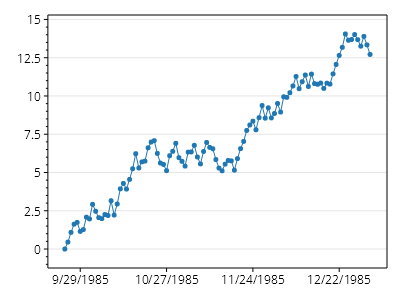
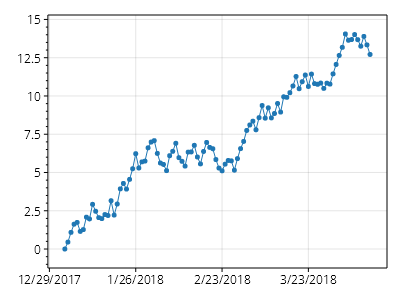
SP5: update cookbook

Changed region(s): [[0.03, 0.9, 0.93, 0.96]]

diff --git a/content/cookbook/5.0/cookbook-5.0.md b/content/cookbook/5.0/cookbook-5.0.md
@@ -2,12 +2,12 @@
 title: ScottPlot 5.0 Cookbook
 description: Example plots shown next to the code used to create them
 url: /cookbook/5.0/
-date: 2/9/2023 11:56:12 PM
+date: 2/28/2023 1:42:27 AM
 ---
 
 
 
-<div class='alert alert-warning' role='alert'><h4 class='alert-heading py-0 my-0'>⚠ ScottPlot 5.0.1-beta is a preview package</h4><hr /><p class='mb-0'><span class='fw-semibold'>This page describes a beta release of ScottPlot.</span> It is available on NuGet as a preview package, but its API is not stable and it is not recommended for production use. See the <a href='https://scottplot.net/versions/'>ScottPlot Versions</a> page for more information. </p></div>
+<div class='alert alert-warning' role='alert'><h4 class='alert-heading py-0 my-0'>⚠ ScottPlot 5.0.2-beta is a preview package</h4><hr /><p class='mb-0'><span class='fw-semibold'>This page describes a beta release of ScottPlot.</span> It is available on NuGet as a preview package, but its API is not stable and it is not recommended for production use. See the <a href='https://scottplot.net/versions/'>ScottPlot Versions</a> page for more information. </p></div>
 
 
 ## Introduction
@@ -292,6 +292,37 @@ date: 2/9/2023 11:56:12 PM
 <div class='col'>
 <div><a href='error-bars/#multidimensional-errorbars'><b>MultiDimensional ErrorBars</b></a></div>
 <div>You can mix and match x and y error bars.</div>
+</div>
+</div>
+<div class='fs-4 mt-4'>Financial Plot</div>
+<div>Finance plots display price data binned into time ranges</div>
+<div class='row my-4'>
+<div class='col'>
+<a href='financial-plot/#ohlc-chart'><img class='img-fluid' src='financial-plot/ohlc-chart.png' /></a>
+</div>
+<div class='col'>
+<div><a href='financial-plot/#ohlc-chart'><b>OHLC Chart</b></a></div>
+<div>OHLC charts use symbols to display price data (open, high, low, and close) for specific time ranges.</div>
+</div>
+</div>
+<div class='row my-4'>
+<div class='col'>
+<a href='financial-plot/#candlestick-chart'><img class='img-fluid' src='financial-plot/candlestick-chart.png' /></a>
+</div>
+<div class='col'>
+<div><a href='financial-plot/#candlestick-chart'><b>Candlestick Chart</b></a></div>
+<div>Candlestick charts use symbols to display price data. The rectangle indicates open and close prices, and the center line indicates minimum and maximum price for the given time period. Color indicates whether the price increased or decreased between open and close.</div>
+</div>
+</div>
+<div class='fs-4 mt-4'>Signal Plot</div>
+<div>Signal plots display evenly-spaced data</div>
+<div class='row my-4'>
+<div class='col'>
+<a href='signal-plot/#offset'><img class='img-fluid' src='signal-plot/offset.png' /></a>
+</div>
+<div class='col'>
+<div><a href='signal-plot/#offset'><b>Offset</b></a></div>
+<div>Signal plots can be offset by a given X and Y value.</div>
 </div>
 </div>
 <hr class='my-5' />

diff --git a/content/cookbook/5.0/financial-plot/index.md b/content/cookbook/5.0/financial-plot/index.md
@@ -1,0 +1,49 @@
+---
+title: Financial Plot - ScottPlot 5.0 Cookbook
+description: Finance plots display price data binned into time ranges
+url: /cookbook/5.0/financial-plot/
+date: 2/28/2023 1:42:27 AM
+---
+
+This page is part of the [ScottPlot 5.0 Cookbook](../)
+
+
+<div class='alert alert-warning' role='alert'><h4 class='alert-heading py-0 my-0'>⚠ ScottPlot 5.0.2-beta is a preview package</h4><hr /><p class='mb-0'><span class='fw-semibold'>This page describes a beta release of ScottPlot.</span> It is available on NuGet as a preview package, but its API is not stable and it is not recommended for production use. See the <a href='https://scottplot.net/versions/'>ScottPlot Versions</a> page for more information. </p></div>
+
+
+
+## OHLC Chart
+
+OHLC charts use symbols to display price data (open, high, low, and close) for specific time ranges.
+
+[![](ohlc-chart.png)](ohlc-chart.png)
+
+```cs
+ScottPlot.Plot myPlot = new();
+
+ScottPlot.RandomDataGenerator gen = new(0);
+ScottPlot.OHLC[] prices = gen.RandomOHLCs(30);
+myPlot.Add.OHLC(prices);
+myPlot.Axes.DateTimeTicks(Edge.Bottom);
+
+myPlot.SavePng("ohlc-chart.png");
+```
+
+
+## Candlestick Chart
+
+Candlestick charts use symbols to display price data. The rectangle indicates open and close prices, and the center line indicates minimum and maximum price for the given time period. Color indicates whether the price increased or decreased between open and close.
+
+[![](candlestick-chart.png)](candlestick-chart.png)
+
+```cs
+ScottPlot.Plot myPlot = new();
+
+ScottPlot.RandomDataGenerator gen = new(0);
+ScottPlot.OHLC[] prices = gen.RandomOHLCs(30);
+myPlot.Add.Candlestick(prices);
+myPlot.Axes.DateTimeTicks(Edge.Bottom);
+
+myPlot.SavePng("candlestick-chart.png");
+```
+

diff --git a/content/cookbook/5.0/datetime-axes/index.md b/content/cookbook/5.0/datetime-axes/index.md
@@ -2,13 +2,13 @@
 title: DateTime Axes - ScottPlot 5.0 Cookbook
 description: Plot data values on a DataTime axes
 url: /cookbook/5.0/datetime-axes/
-date: 2/9/2023 11:56:12 PM
+date: 2/28/2023 1:42:27 AM
 ---
 
 This page is part of the [ScottPlot 5.0 Cookbook](../)
 
 
-<div class='alert alert-warning' role='alert'><h4 class='alert-heading py-0 my-0'>⚠ ScottPlot 5.0.1-beta is a preview package</h4><hr /><p class='mb-0'><span class='fw-semibold'>This page describes a beta release of ScottPlot.</span> It is available on NuGet as a preview package, but its API is not stable and it is not recommended for production use. See the <a href='https://scottplot.net/versions/'>ScottPlot Versions</a> page for more information. </p></div>
+<div class='alert alert-warning' role='alert'><h4 class='alert-heading py-0 my-0'>⚠ ScottPlot 5.0.2-beta is a preview package</h4><hr /><p class='mb-0'><span class='fw-semibold'>This page describes a beta release of ScottPlot.</span> It is available on NuGet as a preview package, but its API is not stable and it is not recommended for production use. See the <a href='https://scottplot.net/versions/'>ScottPlot Versions</a> page for more information. </p></div>
 
 
 
@@ -22,10 +22,7 @@ This page is part of the [ScottPlot 5.0 Cookbook](../)
 ScottPlot.Plot myPlot = new();
 
 // begin with an array of DateTime values
-DateTime[] dates = Generate.ConsecutiveDateTimes(
-    start: new DateTime(1985, 09, 24),
-    step: TimeSpan.FromDays(1),
-    count: 100);
+DateTime[] dates = Generate.DateTime.Days(100);
 
 // convert DateTime to OLE Automation (OADate) format
 double[] xs = dates.Select(x => x.ToOADate()).ToArray();

diff --git a/content/cookbook/5.0/styling-plots/index.md b/content/cookbook/5.0/styling-plots/index.md
@@ -2,13 +2,13 @@
 title: Styling Plots - ScottPlot 5.0 Cookbook
 description: How to customize plots
 url: /cookbook/5.0/styling-plots/
-date: 2/9/2023 11:56:12 PM
+date: 2/28/2023 1:42:27 AM
 ---
 
 This page is part of the [ScottPlot 5.0 Cookbook](../)
 
 
-<div class='alert alert-warning' role='alert'><h4 class='alert-heading py-0 my-0'>⚠ ScottPlot 5.0.1-beta is a preview package</h4><hr /><p class='mb-0'><span class='fw-semibold'>This page describes a beta release of ScottPlot.</span> It is available on NuGet as a preview package, but its API is not stable and it is not recommended for production use. See the <a href='https://scottplot.net/versions/'>ScottPlot Versions</a> page for more information. </p></div>
+<div class='alert alert-warning' role='alert'><h4 class='alert-heading py-0 my-0'>⚠ ScottPlot 5.0.2-beta is a preview package</h4><hr /><p class='mb-0'><span class='fw-semibold'>This page describes a beta release of ScottPlot.</span> It is available on NuGet as a preview package, but its API is not stable and it is not recommended for production use. See the <a href='https://scottplot.net/versions/'>ScottPlot Versions</a> page for more information. </p></div>
 
 
 
@@ -129,8 +129,7 @@ A palette is a set of colors, and the Plot's palette defines the default colors 
 ```cs
 ScottPlot.Plot myPlot = new();
 
-IPalette palette = new ScottPlot.Palettes.Nord();
-myPlot.Palette = palette;
+myPlot.Palette = new ScottPlot.Palettes.Nord();
 
 for (int i = 0; i < 5; i++)
 {

diff --git a/content/cookbook/5.0/advanced-axis-features/index.md b/content/cookbook/5.0/advanced-axis-features/index.md
@@ -2,13 +2,13 @@
 title: Advanced Axis Features - ScottPlot 5.0 Cookbook
 description: Tick mark customization and creation of multi-Axis plots
 url: /cookbook/5.0/advanced-axis-features/
-date: 2/9/2023 11:56:12 PM
+date: 2/28/2023 1:42:27 AM
 ---
 
 This page is part of the [ScottPlot 5.0 Cookbook](../)
 
 
-<div class='alert alert-warning' role='alert'><h4 class='alert-heading py-0 my-0'>⚠ ScottPlot 5.0.1-beta is a preview package</h4><hr /><p class='mb-0'><span class='fw-semibold'>This page describes a beta release of ScottPlot.</span> It is available on NuGet as a preview package, but its API is not stable and it is not recommended for production use. See the <a href='https://scottplot.net/versions/'>ScottPlot Versions</a> page for more information. </p></div>
+<div class='alert alert-warning' role='alert'><h4 class='alert-heading py-0 my-0'>⚠ ScottPlot 5.0.2-beta is a preview package</h4><hr /><p class='mb-0'><span class='fw-semibold'>This page describes a beta release of ScottPlot.</span> It is available on NuGet as a preview package, but its API is not stable and it is not recommended for production use. See the <a href='https://scottplot.net/versions/'>ScottPlot Versions</a> page for more information. </p></div>
 
 
 

diff --git a/content/cookbook/5.0/configuring-legends/index.md b/content/cookbook/5.0/configuring-legends/index.md
@@ -2,13 +2,13 @@
 title: Configuring Legends - ScottPlot 5.0 Cookbook
 description: A legend is a key typically displayed in the corner of a plot
 url: /cookbook/5.0/configuring-legends/
-date: 2/9/2023 11:56:12 PM
+date: 2/28/2023 1:42:27 AM
 ---
 
 This page is part of the [ScottPlot 5.0 Cookbook](../)
 
 
-<div class='alert alert-warning' role='alert'><h4 class='alert-heading py-0 my-0'>⚠ ScottPlot 5.0.1-beta is a preview package</h4><hr /><p class='mb-0'><span class='fw-semibold'>This page describes a beta release of ScottPlot.</span> It is available on NuGet as a preview package, but its API is not stable and it is not recommended for production use. See the <a href='https://scottplot.net/versions/'>ScottPlot Versions</a> page for more information. </p></div>
+<div class='alert alert-warning' role='alert'><h4 class='alert-heading py-0 my-0'>⚠ ScottPlot 5.0.2-beta is a preview package</h4><hr /><p class='mb-0'><span class='fw-semibold'>This page describes a beta release of ScottPlot.</span> It is available on NuGet as a preview package, but its API is not stable and it is not recommended for production use. See the <a href='https://scottplot.net/versions/'>ScottPlot Versions</a> page for more information. </p></div>
 
 
 

diff --git a/content/cookbook/5.0/scottplot-5-quickstart/index.md b/content/cookbook/5.0/scottplot-5-quickstart/index.md
@@ -2,13 +2,13 @@
 title: ScottPlot 5 Quickstart - ScottPlot 5.0 Cookbook
 description: A survey of basic functionality in ScottPlot 5
 url: /cookbook/5.0/scottplot-5-quickstart/
-date: 2/9/2023 11:56:12 PM
+date: 2/28/2023 1:42:27 AM
 ---
 
 This page is part of the [ScottPlot 5.0 Cookbook](../)
 
 
-<div class='alert alert-warning' role='alert'><h4 class='alert-heading py-0 my-0'>⚠ ScottPlot 5.0.1-beta is a preview package</h4><hr /><p class='mb-0'><span class='fw-semibold'>This page describes a beta release of ScottPlot.</span> It is available on NuGet as a preview package, but its API is not stable and it is not recommended for production use. See the <a href='https://scottplot.net/versions/'>ScottPlot Versions</a> page for more information. </p></div>
+<div class='alert alert-warning' role='alert'><h4 class='alert-heading py-0 my-0'>⚠ ScottPlot 5.0.2-beta is a preview package</h4><hr /><p class='mb-0'><span class='fw-semibold'>This page describes a beta release of ScottPlot.</span> It is available on NuGet as a preview package, but its API is not stable and it is not recommended for production use. See the <a href='https://scottplot.net/versions/'>ScottPlot Versions</a> page for more information. </p></div>
 
 
 

diff --git a/content/cookbook/5.0/error-bars/index.md b/content/cookbook/5.0/error-bars/index.md
@@ -2,13 +2,13 @@
 title: Error Bars - ScottPlot 5.0 Cookbook
 description: Error Bars communicate the range of possible values for a measurement
 url: /cookbook/5.0/error-bars/
-date: 2/9/2023 11:56:12 PM
+date: 2/28/2023 1:42:27 AM
 ---
 
 This page is part of the [ScottPlot 5.0 Cookbook](../)
 
 
-<div class='alert alert-warning' role='alert'><h4 class='alert-heading py-0 my-0'>⚠ ScottPlot 5.0.1-beta is a preview package</h4><hr /><p class='mb-0'><span class='fw-semibold'>This page describes a beta release of ScottPlot.</span> It is available on NuGet as a preview package, but its API is not stable and it is not recommended for production use. See the <a href='https://scottplot.net/versions/'>ScottPlot Versions</a> page for more information. </p></div>
+<div class='alert alert-warning' role='alert'><h4 class='alert-heading py-0 my-0'>⚠ ScottPlot 5.0.2-beta is a preview package</h4><hr /><p class='mb-0'><span class='fw-semibold'>This page describes a beta release of ScottPlot.</span> It is available on NuGet as a preview package, but its API is not stable and it is not recommended for production use. See the <a href='https://scottplot.net/versions/'>ScottPlot Versions</a> page for more information. </p></div>
 
 
 

diff --git a/content/cookbook/5.0/axis-and-ticks/index.md b/content/cookbook/5.0/axis-and-ticks/index.md
@@ -2,13 +2,13 @@
 title: Axis and Ticks - ScottPlot 5.0 Cookbook
 description: Examples of common customizations for axis labels and ticks
 url: /cookbook/5.0/axis-and-ticks/
-date: 2/9/2023 11:56:12 PM
+date: 2/28/2023 1:42:27 AM
 ---
 
 This page is part of the [ScottPlot 5.0 Cookbook](../)
 
 
-<div class='alert alert-warning' role='alert'><h4 class='alert-heading py-0 my-0'>⚠ ScottPlot 5.0.1-beta is a preview package</h4><hr /><p class='mb-0'><span class='fw-semibold'>This page describes a beta release of ScottPlot.</span> It is available on NuGet as a preview package, but its API is not stable and it is not recommended for production use. See the <a href='https://scottplot.net/versions/'>ScottPlot Versions</a> page for more information. </p></div>
+<div class='alert alert-warning' role='alert'><h4 class='alert-heading py-0 my-0'>⚠ ScottPlot 5.0.2-beta is a preview package</h4><hr /><p class='mb-0'><span class='fw-semibold'>This page describes a beta release of ScottPlot.</span> It is available on NuGet as a preview package, but its API is not stable and it is not recommended for production use. See the <a href='https://scottplot.net/versions/'>ScottPlot Versions</a> page for more information. </p></div>
 
 
 

diff --git a/content/cookbook/5.0/customizing-ticks/index.md b/content/cookbook/5.0/customizing-ticks/index.md
@@ -2,13 +2,13 @@
 title: Customizing Ticks - ScottPlot 5.0 Cookbook
 description: Advanced customization of tick marks and tick labels
 url: /cookbook/5.0/customizing-ticks/
-date: 2/9/2023 11:56:12 PM
+date: 2/28/2023 1:42:27 AM
 ---
 
 This page is part of the [ScottPlot 5.0 Cookbook](../)
 
 
-<div class='alert alert-warning' role='alert'><h4 class='alert-heading py-0 my-0'>⚠ ScottPlot 5.0.1-beta is a preview package</h4><hr /><p class='mb-0'><span class='fw-semibold'>This page describes a beta release of ScottPlot.</span> It is available on NuGet as a preview package, but its API is not stable and it is not recommended for production use. See the <a href='https://scottplot.net/versions/'>ScottPlot Versions</a> page for more information. </p></div>
+<div class='alert alert-warning' role='alert'><h4 class='alert-heading py-0 my-0'>⚠ ScottPlot 5.0.2-beta is a preview package</h4><hr /><p class='mb-0'><span class='fw-semibold'>This page describes a beta release of ScottPlot.</span> It is available on NuGet as a preview package, but its API is not stable and it is not recommended for production use. See the <a href='https://scottplot.net/versions/'>ScottPlot Versions</a> page for more information. </p></div>
 
 
 

diff --git a/content/cookbook/5.0/bar-plot/index.md b/content/cookbook/5.0/bar-plot/index.md
@@ -2,13 +2,13 @@
 title: Bar Plot - ScottPlot 5.0 Cookbook
 description: Bar plots represent values as horizontal or vertical rectangles
 url: /cookbook/5.0/bar-plot/
-date: 2/9/2023 11:56:12 PM
+date: 2/28/2023 1:42:27 AM
 ---
 
 This page is part of the [ScottPlot 5.0 Cookbook](../)
 
 
-<div class='alert alert-warning' role='alert'><h4 class='alert-heading py-0 my-0'>⚠ ScottPlot 5.0.1-beta is a preview package</h4><hr /><p class='mb-0'><span class='fw-semibold'>This page describes a beta release of ScottPlot.</span> It is available on NuGet as a preview package, but its API is not stable and it is not recommended for production use. See the <a href='https://scottplot.net/versions/'>ScottPlot Versions</a> page for more information. </p></div>
+<div class='alert alert-warning' role='alert'><h4 class='alert-heading py-0 my-0'>⚠ ScottPlot 5.0.2-beta is a preview package</h4><hr /><p class='mb-0'><span class='fw-semibold'>This page describes a beta release of ScottPlot.</span> It is available on NuGet as a preview package, but its API is not stable and it is not recommended for production use. See the <a href='https://scottplot.net/versions/'>ScottPlot Versions</a> page for more information. </p></div>
 
 
 

diff --git a/content/cookbook/5.0/signal-plot/index.md b/content/cookbook/5.0/signal-plot/index.md
@@ -1,0 +1,36 @@
+---
+title: Signal Plot - ScottPlot 5.0 Cookbook
+description: Signal plots display evenly-spaced data
+url: /cookbook/5.0/signal-plot/
+date: 2/28/2023 1:42:27 AM
+---
+
+This page is part of the [ScottPlot 5.0 Cookbook](../)
+
+
+<div class='alert alert-warning' role='alert'><h4 class='alert-heading py-0 my-0'>⚠ ScottPlot 5.0.2-beta is a preview package</h4><hr /><p class='mb-0'><span class='fw-semibold'>This page describes a beta release of ScottPlot.</span> It is available on NuGet as a preview package, but its API is not stable and it is not recommended for production use. See the <a href='https://scottplot.net/versions/'>ScottPlot Versions</a> page for more information. </p></div>
+
+
+
+## Offset
+
+Signal plots can be offset by a given X and Y value.
+
+[![](offset.png)](offset.png)
+
+```cs
+ScottPlot.Plot myPlot = new();
+
+double[] values = Generate.Sin(51);
+
+var sig1 = myPlot.Add.Signal(values);
+sig1.Label = "Default";
+
+var sig2 = myPlot.Add.Signal(values);
+sig2.Data.XOffset = 10;
+sig2.Data.YOffset = .25;
+sig2.Label = "Offset";
+
+myPlot.SavePng("offset.png");
+```
+
